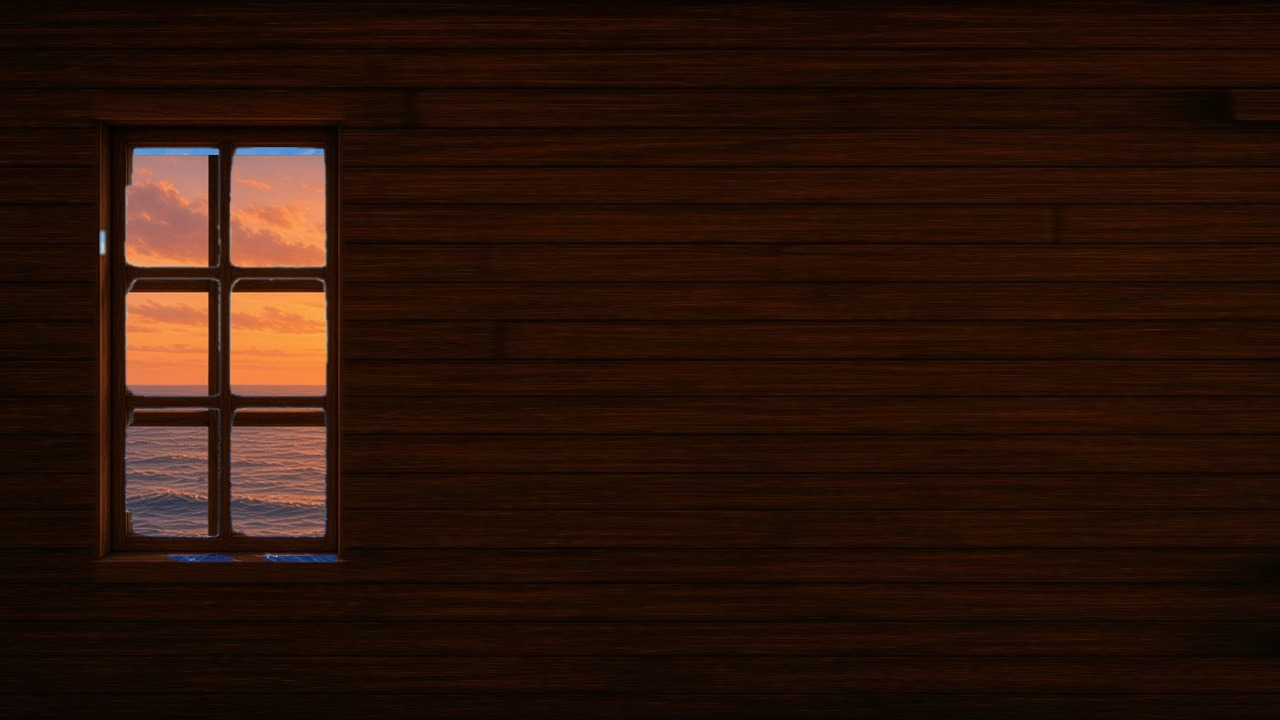
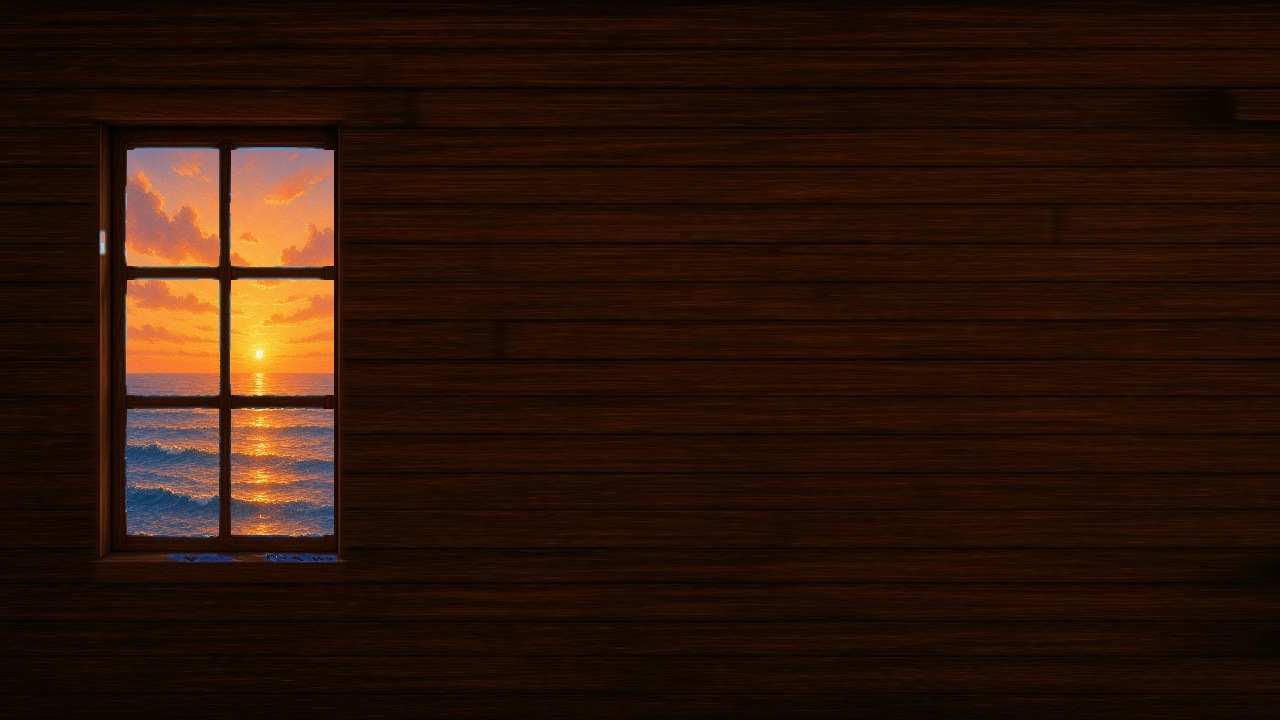
Place sunrise scenes behind port and starboard window frames
Fill the window openings with a continuous ocean view, then restore
the wood frame and mullions on top so old daytime panes are gone.

Changed region(s): [[0.0938, 0.1833, 0.2812, 0.7944]]

diff --git a/pirates-cabin.html b/pirates-cabin.html
@@ -48,14 +48,14 @@
           </div>
           <div class="cabin-face cabin-face-port">
             <img
-              src="images/cabin-port-wall-v11.jpg?v=1"
+              src="images/cabin-port-wall-v11.jpg?v=2"
               alt="Port wall with left stern sunrise view in the window near the stern"
               draggable="false"
             />
           </div>
           <div class="cabin-face cabin-face-starboard">
             <img
-              src="images/cabin-starboard-wall-v4.jpg?v=1"
+              src="images/cabin-starboard-wall-v4.jpg?v=2"
               alt="Starboard wall with right stern sunrise view in the window near the stern"
               draggable="false"
             />
